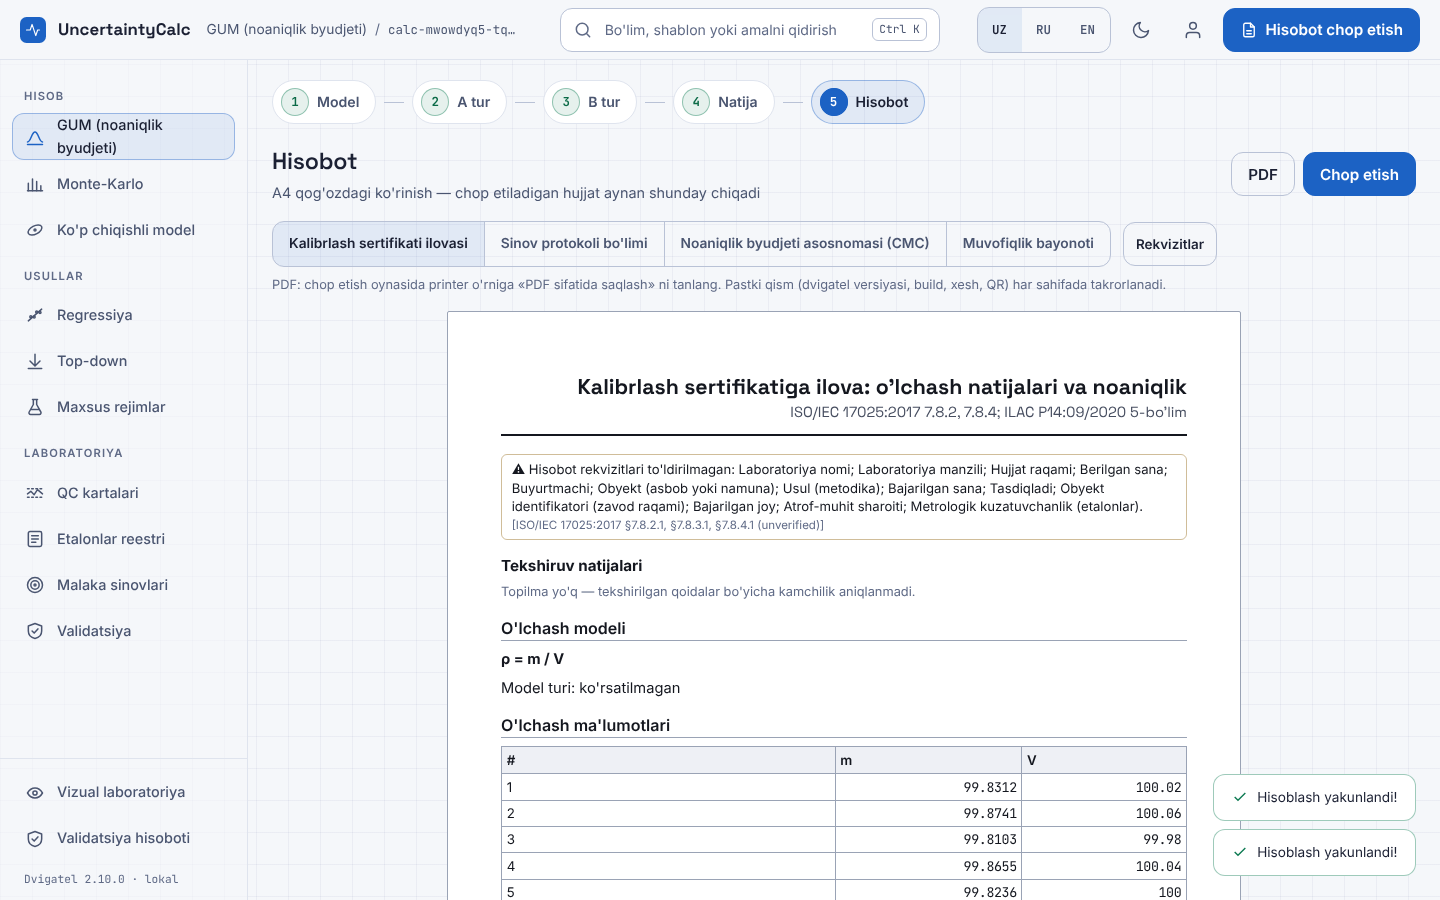
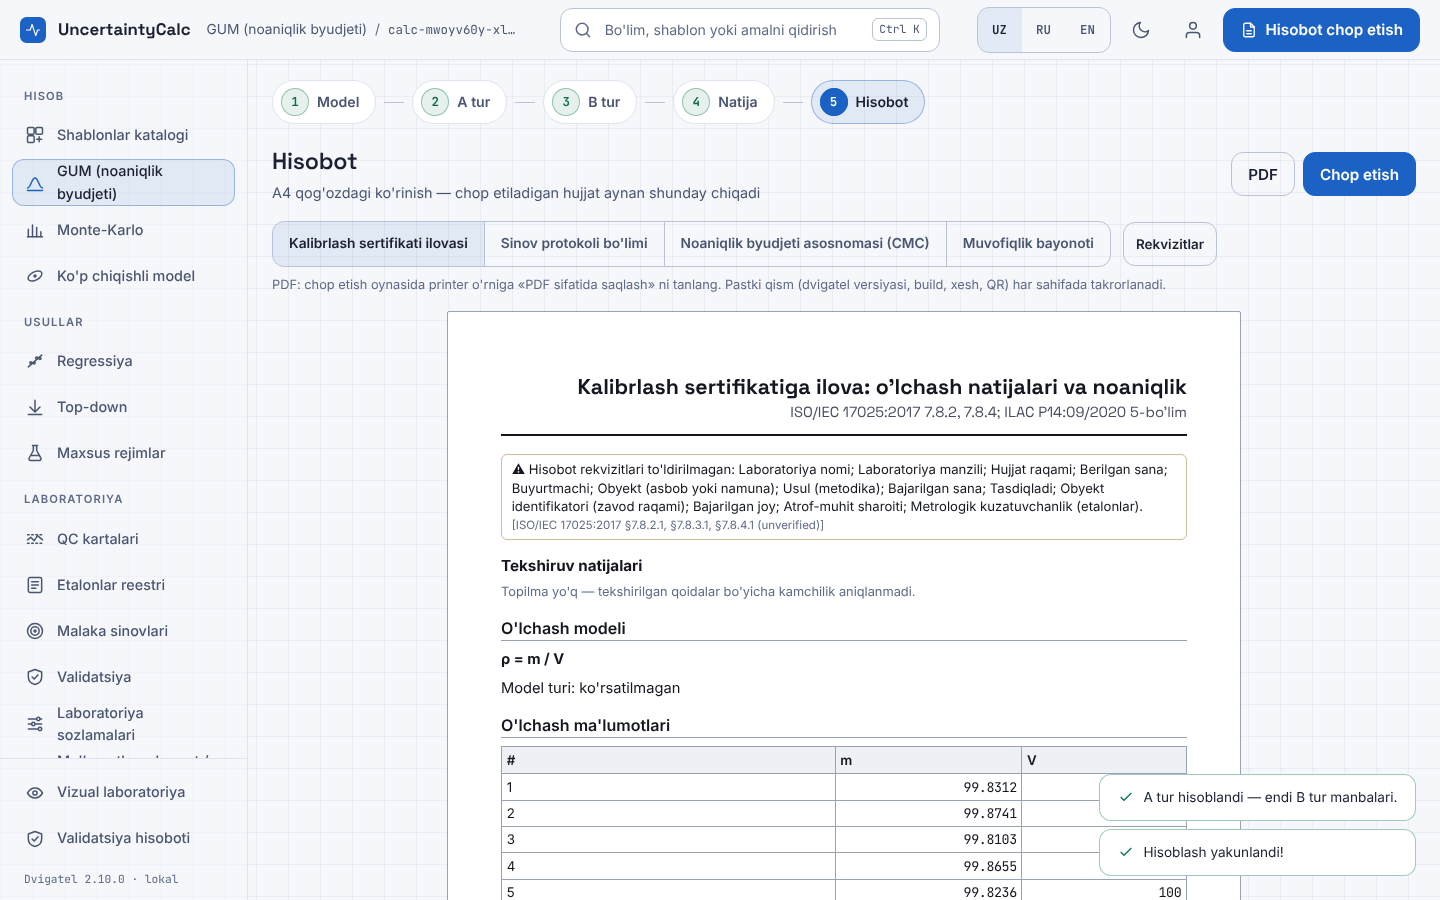
fix(ui): chap menyuga Shablonlar katalogi, laboratoriya sozlamalari va ma'lumotlar; 1-qadamda "Shablondan boshlash"; takroriy toast
- HISOB guruhi tepasida "Shablonlar katalogi"; LABORATORIYA guruhida sozlamalar va eksport / import / audit
- 1-qadam (Model) ekranida "Shablondan boshlash" tugmasi
- "Hisoblash yakunlandi!": A tur hisobi va namuna to'ldirish uchun alohida matnlar; bir xil toast takrorlanmaydi
- Hisob o'zgarmagan (src/engine, src/report tegilmagan)

Claude-Session: https://claude.ai/code/session_01C26Ps6XG2qLWTPzHqTJsJq

diff --git a/index.html b/index.html
@@ -568,6 +568,8 @@
       <symbol id="ic-registry" viewBox="0 0 24 24"><rect x="4" y="3" width="16" height="18" rx="2"/><path d="M8 8h8M8 12h8M8 16h5"/></symbol>
       <symbol id="ic-pt" viewBox="0 0 24 24"><circle cx="12" cy="12" r="9"/><circle cx="12" cy="12" r="5"/><circle cx="12" cy="12" r="1.2"/></symbol>
       <symbol id="ic-validation" viewBox="0 0 24 24"><path d="M12 3 4 6v6c0 4.5 3.4 8 8 9 4.600-1 8-4.500 8-9V6z"/><path d="m8.500 12 2.500 2.500 4.500-5"/></symbol>
+      <symbol id="ic-templates" viewBox="0 0 24 24"><rect x="3" y="3" width="8" height="8" rx="1.5"/><rect x="13" y="3" width="8" height="8" rx="1.5"/><rect x="3" y="13" width="8" height="8" rx="1.5"/><path d="M17 14v6M14 17h6"/></symbol>
+      <symbol id="ic-data" viewBox="0 0 24 24"><ellipse cx="12" cy="6" rx="8" ry="3"/><path d="M4 6v6c0 1.700 3.600 3 8 3s8-1.300 8-3V6M4 12v6c0 1.700 3.600 3 8 3s8-1.300 8-3v-6"/></symbol>
       <symbol id="ic-vizlab" viewBox="0 0 24 24"><path d="M3 12s3.500-6 9-6 9 6 9 6-3.500 6-9 6-9-6-9-6z"/><circle cx="12" cy="12" r="2.500"/></symbol>
       <symbol id="ic-report" viewBox="0 0 24 24"><path d="M14 3H7a2 2 0 0 0-2 2v14a2 2 0 0 0 2 2h10a2 2 0 0 0 2-2V8z"/><path d="M14 3v5h5M9 13h6M9 17h6"/></symbol>
       <symbol id="ic-search" viewBox="0 0 24 24"><circle cx="11" cy="11" r="7"/><path d="m20 20-3.500-3.500"/></symbol>
@@ -638,6 +640,7 @@
       <div class="nav-scroll">
       <p class="nav-group" data-i18n="sh_g_calc">Calculation</p>
       <ul class="nav-list">
+        <li><button type="button" class="nav-item" data-open-templates="1" data-nav-action="templates"><svg class="ic" aria-hidden="true"><use href="#ic-templates"/></svg><span class="nav-label" data-i18n="tpl_open_catalog"></span><span class="nav-short" data-i18n="sh_s_templates" aria-hidden="true"></span></button></li>
         <li><button type="button" class="nav-item" data-nav="gum"><svg class="ic" aria-hidden="true"><use href="#ic-gum"/></svg><span class="nav-label" data-i18n="sh_n_gum"></span><span class="nav-short" data-i18n="sh_s_gum" aria-hidden="true"></span></button></li>
         <li><button type="button" class="nav-item" data-nav="mc"><svg class="ic" aria-hidden="true"><use href="#ic-mc"/></svg><span class="nav-label" data-i18n="sh_n_mc"></span><span class="nav-short" data-i18n="sh_s_mc" aria-hidden="true"></span></button></li>
         <li><button type="button" class="nav-item" data-nav="multi"><svg class="ic" aria-hidden="true"><use href="#ic-multi"/></svg><span class="nav-label" data-i18n="sh_n_multi"></span><span class="nav-short" data-i18n="sh_s_multi" aria-hidden="true"></span></button></li>
@@ -654,6 +657,8 @@
         <li><button type="button" class="nav-item" data-nav="lab-standards"><svg class="ic" aria-hidden="true"><use href="#ic-registry"/></svg><span class="nav-label" data-i18n="sh_n_registry"></span><span class="nav-short" data-i18n="sh_s_registry" aria-hidden="true"></span></button></li>
         <li><button type="button" class="nav-item" data-nav="lab-pt"><svg class="ic" aria-hidden="true"><use href="#ic-pt"/></svg><span class="nav-label" data-i18n="sh_n_pt"></span><span class="nav-short" data-i18n="sh_s_pt" aria-hidden="true"></span></button></li>
         <li><button type="button" class="nav-item" data-nav="lab-validation"><svg class="ic" aria-hidden="true"><use href="#ic-validation"/></svg><span class="nav-label" data-i18n="sh_n_validation"></span><span class="nav-short" data-i18n="sh_s_validation" aria-hidden="true"></span></button></li>
+        <li><button type="button" class="nav-item" data-open-lab="1" data-nav-action="lab-settings"><svg class="ic" aria-hidden="true"><use href="#ic-sliders"/></svg><span class="nav-label" data-i18n="tpl_btn_lab"></span><span class="nav-short" data-i18n="sh_s_labset" aria-hidden="true"></span></button></li>
+        <li><button type="button" class="nav-item" data-open-data="1" data-nav-action="data"><svg class="ic" aria-hidden="true"><use href="#ic-data"/></svg><span class="nav-label" data-i18n="tpl_btn_data"></span><span class="nav-short" data-i18n="sh_s_data" aria-hidden="true"></span></button></li>
       </ul>
       </div>
       <div class="nav-foot">
@@ -765,6 +770,7 @@
       </div>
     </section>
         <div class="data-scroll">
+          <div class="model-start"><button type="button" class="btn btn-outline" data-open-templates="1" data-model-template="1"><svg class="ic" aria-hidden="true"><use href="#ic-templates"/></svg><span data-i18n="sh_tpl_start">Start from a template</span></button></div>
           <div id="template-box"></div>
           <div id="model-box"></div>
           <div id="table-hint-box"></div>

diff --git a/tests/ui/shell.test.js b/tests/ui/shell.test.js
@@ -125,3 +125,55 @@ test('mavzu: tanlov localStorage `uc_theme` da saqlanadi (eski kalit o\'zgarmaga
   assert.match(js, /localStorage\.setItem\('uc_theme', next\)/);
   assert.match(js, /localStorage\.getItem\('uc_theme'\) \|\| 'dark'/);
 });
+
+test('chap menyu: "Shablonlar katalogi" (HISOB guruhi tepasida), "Laboratoriya sozlamalari" va "Ma\'lumotlar" (LABORATORIYA); 1-qadamda "Shablondan boshlash"', () => {
+  const fs = require('node:fs'), path = require('node:path');
+  const { JSDOM } = require('jsdom');
+  const root = path.join(__dirname, '..', '..');
+  const html = fs.readFileSync(path.join(root, 'index.html'), 'utf8');
+  const doc = new JSDOM(html).window.document;
+  const lists = [...doc.querySelectorAll('#side-nav .nav-scroll .nav-list')];
+  const first = lists[0].querySelector('.nav-item');
+  assert.equal(first.dataset.navAction, 'templates');
+  assert.ok(first.hasAttribute('data-open-templates'), 'mavjud ishlovchi (openCatalog) orqali ochiladi');
+  assert.equal(first.querySelector('.nav-label').dataset.i18n, 'tpl_open_catalog');
+  assert.ok(doc.getElementById(first.querySelector('use').getAttribute('href').slice(1)), 'ikonka mavjud');
+  const lab = [...lists[2].querySelectorAll('.nav-item')];
+  assert.deepEqual(lab.slice(-2).map(b => b.dataset.navAction), ['lab-settings', 'data']);
+  assert.ok(lab[lab.length - 2].hasAttribute('data-open-lab') && lab[lab.length - 1].hasAttribute('data-open-data'));
+  assert.deepEqual(lab.slice(-2).map(b => b.querySelector('.nav-label').dataset.i18n), ['tpl_btn_lab', 'tpl_btn_data']);
+  // amal bandlari yorliq almashtirmaydi (data-nav yo'q) — NAV modeli va faol band mantig'i o'zgarmagan
+  for (const b of doc.querySelectorAll('[data-nav-action]')) {
+    assert.equal(b.tagName, 'BUTTON');
+    assert.ok(!b.hasAttribute('data-nav'));
+    assert.ok(b.querySelector('.nav-short[data-i18n]') && doc.getElementById(b.querySelector('use').getAttribute('href').slice(1)));
+  }
+  const start = doc.querySelector('#tab-data [data-model-template]');
+  assert.ok(start && start.hasAttribute('data-open-templates'));
+  assert.equal(start.querySelector('[data-i18n]').dataset.i18n, 'sh_tpl_start');
+  assert.ok(start.compareDocumentPosition(doc.getElementById('model-box')) & 4, 'model qutisidan oldin');
+  const tplApp = fs.readFileSync(path.join(root, 'src/ui/tpl/app.js'), 'utf8');
+  assert.match(tplApp, /closest\('\[data-open-templates\]'\)\) \{ openCatalog\(\)/);
+  assert.equal((tplApp.match(/closest\('\[data-open-templates\]'\)/g) || []).length, 1, 'ishlovchi bir marta ulangan');
+});
+
+test('toast: bir xil xabar ekranda turganida ikkinchi nusxa qo\'shilmaydi; A tur va yakuniy hisob xabarlari alohida', () => {
+  const fs = require('node:fs'), path = require('node:path');
+  const { JSDOM } = require('jsdom');
+  const root = path.join(__dirname, '..', '..');
+  const { createToast } = require('../../src/ui/toast.js');
+  const doc = new JSDOM('<!doctype html><body></body>').window.document;
+  const a = createToast(doc, 'Hisoblash yakunlandi!', 'success', 50);
+  const b = createToast(doc, 'Hisoblash yakunlandi!', 'success', 50);
+  assert.equal(a, b);
+  assert.equal(doc.querySelectorAll('.toast').length, 1);
+  createToast(doc, 'Hisoblash yakunlandi!', 'error', 50);          // boshqa tur — alohida
+  createToast(doc, 'boshqa xabar', 'success', 50);
+  assert.equal(doc.querySelectorAll('.toast').length, 3);
+  assert.equal(doc.querySelector('.toast span').textContent, 'Hisoblash yakunlandi!');
+  clearTimeout(a._timer); [...doc.querySelectorAll('.toast')].forEach(t => clearTimeout(t._timer));
+  const table = fs.readFileSync(path.join(root, 'src/js/table.js'), 'utf8');
+  assert.ok(!table.includes("'toast_calc_done'"), 'A tur / namuna to\'ldirish "Hisoblash yakunlandi!" demaydi');
+  assert.match(table, /toast_typea_done/); assert.match(table, /toast_sample_done/);
+  assert.equal((fs.readFileSync(path.join(root, 'src/js/typeB.js'), 'utf8').match(/'toast_calc_done'/g) || []).length, 1);
+});

diff --git a/src/ui/toast.js b/src/ui/toast.js
@@ -26,6 +26,14 @@
     return svg;
   }
 
+  function leave(toast) {
+    toast.dataset.toastLeaving = '1';
+    toast.style.opacity = '0';
+    toast.style.transform = 'translateX(20px)';
+    toast.style.transition = 'opacity .3s, transform .3s';
+    setTimeout(() => toast.remove(), 300);
+  }
+
   function createToast(doc, msg, type, duration) {
     type = ICONS[type] ? type : 'info';
     duration = duration === undefined ? 3000 : duration;
@@ -36,20 +44,20 @@
       container.id = 'toast-container';
       doc.body.appendChild(container);
     }
+    const label = msg === null || msg === undefined ? '' : String(msg);
+    // Bir xil xabar hali ekranda bo'lsa ikkinchi nusxa qo'shilmaydi — mavjudining vaqti yangilanadi
+    const same = [...container.children].find(el => el.dataset.toastKey === type + '|' + label && !el.dataset.toastLeaving);
+    if (same) { clearTimeout(same._timer); same._timer = setTimeout(() => leave(same), duration); return same; }
     const toast = doc.createElement('div');
     toast.className = 'toast ' + type;
+    toast.dataset.toastKey = type + '|' + label;
     toast.appendChild(makeIcon(doc, type));
     const text = doc.createElement('span');
-    text.textContent = msg === null || msg === undefined ? '' : String(msg);
+    text.textContent = label;
     toast.appendChild(text);
     container.appendChild(toast);
 
-    setTimeout(() => {
-      toast.style.opacity = '0';
-      toast.style.transform = 'translateX(20px)';
-      toast.style.transition = 'opacity .3s, transform .3s';
-      setTimeout(() => toast.remove(), 300);
-    }, duration);
+    toast._timer = setTimeout(() => leave(toast), duration);
     return toast;
   }
 

diff --git a/src/js/i18n.js b/src/js/i18n.js
@@ -199,6 +199,8 @@ const TRANSLATIONS = {
     section_expanded:  'Expanded Uncertainty',
 
     toast_calc_done:   'Calculation complete!',
+    toast_typea_done:  "Type A evaluated — now add Type B sources.",
+    toast_sample_done: "Sample data filled in.",
     toast_need_data:   'Please enter measurement data first.',
     toast_need_typeb:  'Add at least one Type B component.',
 
@@ -402,6 +404,8 @@ const TRANSLATIONS = {
     section_expanded:  'Расширенная неопределённость',
 
     toast_calc_done:   'Расчёт завершён!',
+    toast_typea_done:  "Тип A рассчитан — теперь источники типа B.",
+    toast_sample_done: "Примерные данные заполнены.",
     toast_need_data:   'Сначала введите данные измерений.',
     toast_need_typeb:  'Добавьте хотя бы один компонент типа B.',
 
@@ -604,6 +608,8 @@ const TRANSLATIONS = {
     section_expanded:  'Kengaytirilgan noaniqlik',
 
     toast_calc_done:   'Hisoblash yakunlandi!',
+    toast_typea_done:  "A tur hisoblandi — endi B tur manbalari.",
+    toast_sample_done: "Namuna ma'lumotlar to'ldirildi.",
     toast_need_data:   'Avval o\'lchash ma\'lumotlarini kiriting.',
     toast_need_typeb:  'Kamida bitta B-tip komponent qo\'shing.',
 

diff --git a/src/js/i18n-shell.js b/src/js/i18n-shell.js
@@ -29,6 +29,10 @@
       sh_n_validation: "Validatsiya",
       sh_n_vizlab: "Vizual laboratoriya",
       sh_n_valreport: "Validatsiya hisoboti",
+      sh_s_templates: "Shablon",
+      sh_s_labset: "Sozlama",
+      sh_s_data: "Ma'lumot",
+      sh_tpl_start: "Shablondan boshlash",
       sh_s_gum: "GUM",
       sh_s_mc: "MCM",
       sh_s_multi: "Vektor",
@@ -127,6 +131,10 @@
       sh_n_validation: "Валидация",
       sh_n_vizlab: "Визуальная лаборатория",
       sh_n_valreport: "Отчёт о валидации",
+      sh_s_templates: "Шаблоны",
+      sh_s_labset: "Настр.",
+      sh_s_data: "Данные",
+      sh_tpl_start: "Начать с шаблона",
       sh_s_gum: "GUM",
       sh_s_mc: "МКМ",
       sh_s_multi: "Вектор",
@@ -225,6 +233,10 @@
       sh_n_validation: "Validation",
       sh_n_vizlab: "Visual lab",
       sh_n_valreport: "Validation report",
+      sh_s_templates: "Templates",
+      sh_s_labset: "Settings",
+      sh_s_data: "Data",
+      sh_tpl_start: "Start from a template",
       sh_s_gum: "GUM",
       sh_s_mc: "MCM",
       sh_s_multi: "Vector",

diff --git a/src/css/shell.css b/src/css/shell.css
@@ -402,3 +402,7 @@ a.topbar-brand { text-decoration: none; color: var(--c-text); }
 /* Shablon kartasi: "Manba bilan mos" / unverified belgisi (avtomatik — templates/validation/builtin.json) */
 .tpl-validation { margin: var(--s-2) 0; }
 .tpl-validation .badge { white-space: normal; text-align: left; border-radius: var(--r-control); font-family: var(--font-text); font-weight: 500; line-height: 1.35; padding: var(--s-1) var(--s-2); }
+
+/* 1-qadam (Model): "Shablondan boshlash" — shablonlar katalogiga kirish (chap menyu telefonda yashirin) */
+.model-start { display: flex; justify-content: flex-end; margin-bottom: var(--s-3); }
+.model-start .btn { display: inline-flex; align-items: center; gap: var(--s-2); }

diff --git a/src/js/table.js b/src/js/table.js
@@ -560,7 +560,7 @@ const Table = (() => {
       );
       appState.setMeasurements(p, vals);
     });
-    showToast(i18n.t('toast_calc_done'), 'success');
+    showToast(i18n.t('toast_sample_done'), 'info');
   }
 
   function clearData() {
@@ -599,7 +599,7 @@ const Table = (() => {
     }
 
     appState.set({ typeA });
-    showToast(i18n.t('toast_calc_done'), 'success');
+    showToast(i18n.t('toast_typea_done'), 'success');
 
     // Switch to Type B tab
     switchTab('typeb');

diff --git a/CHANGELOG.md b/CHANGELOG.md
@@ -19,6 +19,7 @@ Etalon nuqtalar ko'rinishi faqat egasi qabul qilgan ikki yaxlitlash qoidasi tufa
 - **Hisobot**: "Hisobot" yorlig'i — oq A4 qog'oz ko'rinishi, 4 shaklli almashtirgich, "PDF" va "Chop etish"; bosma CSS (`src/css/print.css`): jadval sarlavhasi sahifa bo'linishida takrorlanadi; shrift — asosiy matn 11 pt, jadvallar 10 pt, pastki qism 9 pt (egasi qarori 2026-11-20); **pastki qism (ENGINE, build, xesh, QR) har sahifada**. Sahifalar soni (Chromium PDF): zichlik — 3, gazoanalizator (3 nuqta) — 8, termometr (5 nuqta) — 16.
 - **Vizual laboratoriya** (`src/ui/vizlab/`, o'quv vositasi, dvigatelga ulangan; birinchi ochilganda yuklanadi): Monte-Karlo jonli, muvofiqlik simulyatori (`decide()`), ekstremal holatlar, QC siljishi (`westgard()`), korrelyatsiya, byudjet sezgirligi (`evaluate()`). Har bir rejimda "o'quv namunasi" yorlig'i; natija saqlanmaydi va hisobotga chiqmaydi.
 - **AI sahifasi (P14) yangi dizaynda**: `ai.html` va AI oynasi tokenlar / qobiq uslubida; `ai.html` CSP si o'zgarmagan — faqat Google Fonts manbalari olib tashlandi; saqlangan mavzu qo'llanadi. P16 P14 (`88e271e`) ustiga rebase qilingan.
+- **P16 dan keyingi tuzatish (2026-11-20; hisob o'zgarmagan, faqat interfeys):** chap menyuga "Shablonlar katalogi" (HISOB guruhi tepasida), "Laboratoriya sozlamalari" va "Ma'lumotlar: eksport / import / audit" (LABORATORIYA) qaytarildi; 1-qadam (Model) da "Shablondan boshlash" tugmasi. "Hisoblash yakunlandi!" ikki marta chiqishi: ishlovchi ikki marta ulanmagan — A tur hisobi va namuna to'ldirish ham shu matnni ko'rsatardi; endi alohida matnlar (`toast_typea_done`, `toast_sample_done`) va bir xil toast ekranda turganida takrorlanmaydi (`src/ui/toast.js`).
 - **Egasi qarorlari (2026-11-20, 3-to'plam) bo'yicha — hisob o'zgarmagan, faqat ko'rinish:**
   - **Shablon validatsiyasi dalili** — `templates/validation/builtin.json` (format `uc-template-validation/2`, `_generated` belgisi; shablon ichiga qo'yilmaydi): har bir (shablon, test) uchun yozuv — `templateId`, `templateHash` (RFC 8785 → SHA-256), `ENGINE_VERSION`, `testId`, `source`, `clause`, `relDiff`, `date`. Faqat `npm run validate:templates` yaratadi; `npm test` va CI (`--check` + `git diff --exit-code`) qayta yaratib solishtiradi — qo'lda tahrir xato. Runtime (`src/templates/validation-status.js`): `templateHash` yoki `ENGINE_VERSION` mos kelmasa, shablon builtin bo'lmasa (import / brauzerdagi nusxa) — **"unverified"** (sababi bilan). A4 hisobotida bitta qator: validatsiya holati + manba + `ENGINE_VERSION`.
   - **MCM xulosasi matni** (`src/report/sections.js::mcVerdict`; dvigatel o'zgarmagan): MCM sonli toleransga yetmagan bo'lsa **"GUM natijasi tasdiqlandi" yozuvi chiqmaydi**; og'ir dumli modelda (ν ≤ 2 kirish) — "MCM n_dig = 2 da yaqinlashmadi (erishilgan n_dig = …, M = …) — LPU validatsiyasi o'tkazilmadi" (uch tilda), "natija sifatida MCM intervali" satri bu holatda chiqmaydi. M chegarasi 10⁷ o'zgarmagan.
